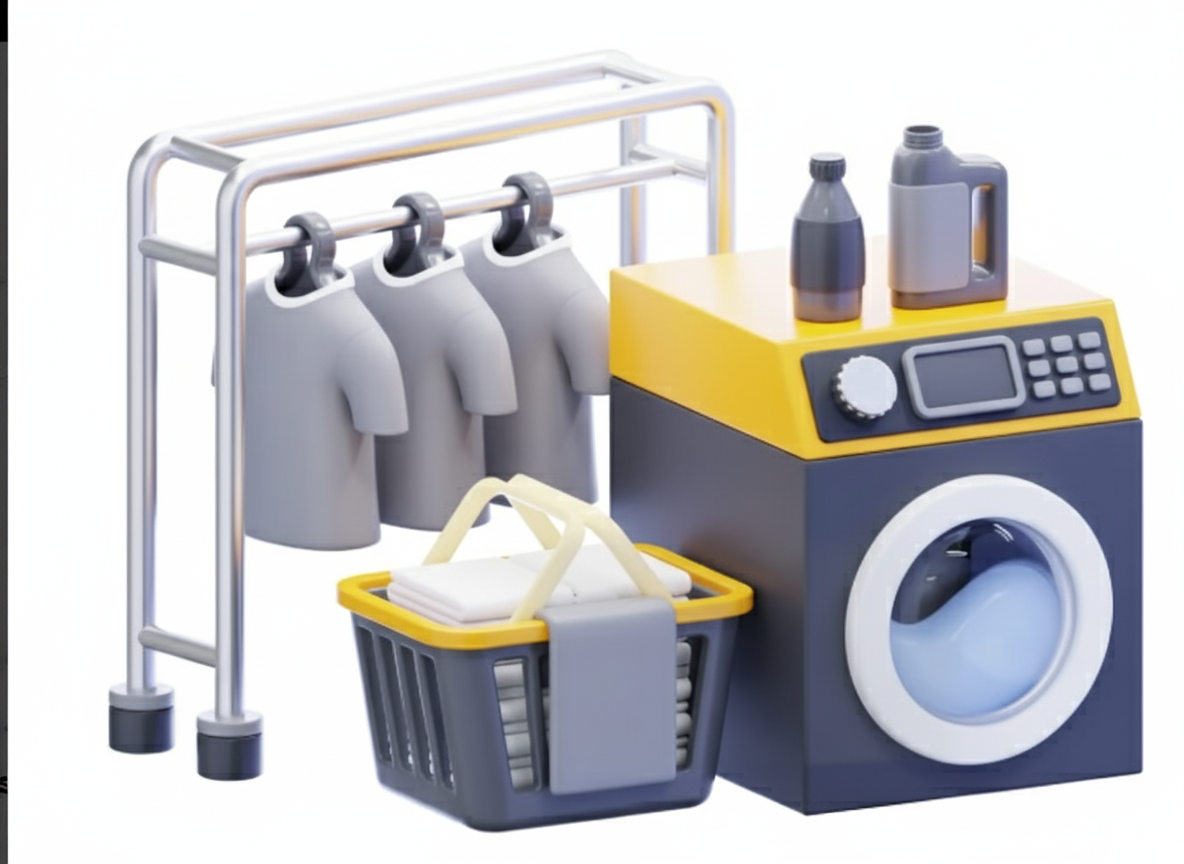
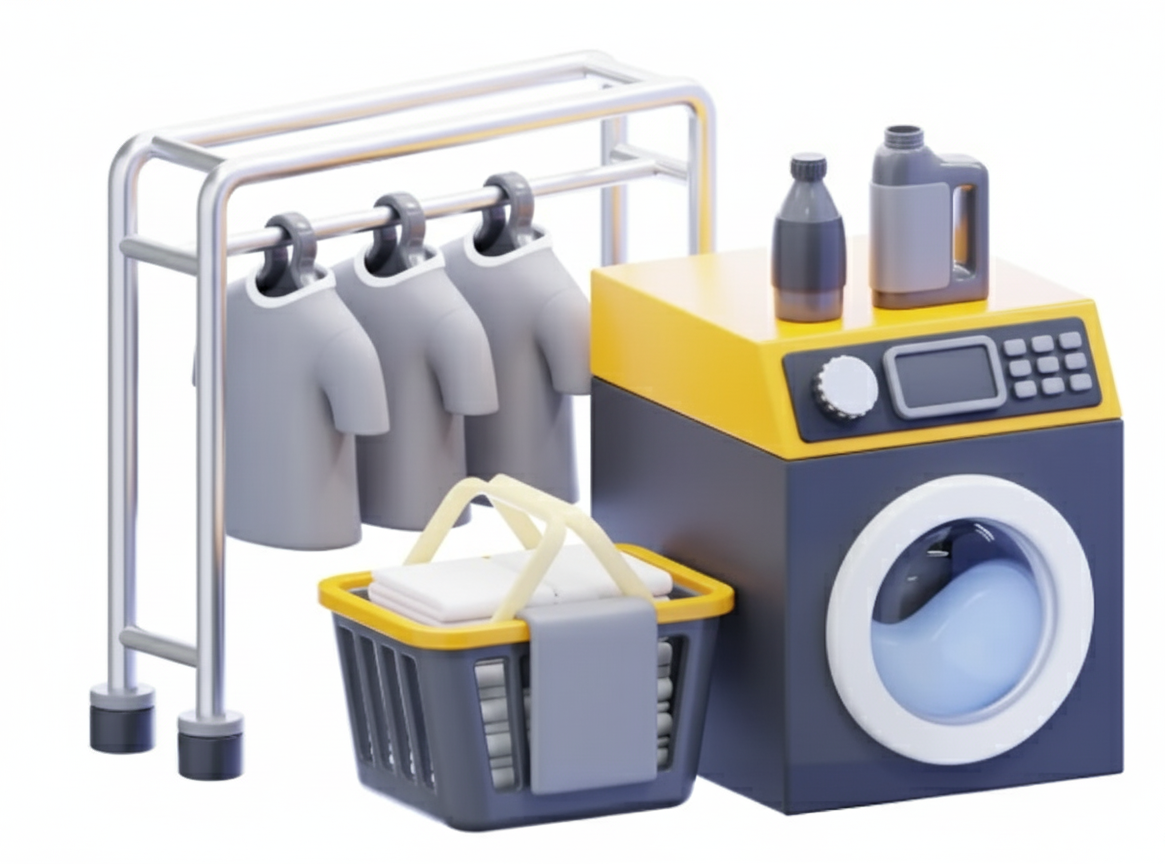
fixed bottom and right overflow

diff --git a/lib/screens/chat_screen.dart b/lib/screens/chat_screen.dart
@@ -55,22 +55,23 @@ class _ChatScreenState extends State<ChatScreen> {
         ),
         title: Row(
           mainAxisAlignment: MainAxisAlignment.center,
+          mainAxisSize: MainAxisSize.min,
           children: [
             Container(
-              width: 28,
-              height: 28,
+              width: 24,
+              height: 24,
               decoration: BoxDecoration(
                 color: Colors.white,
                 borderRadius: BorderRadius.circular(6),
               ),
-              child: const Icon(Icons.local_laundry_service, color: Color(0xFF1A237E), size: 16),
+              child: const Icon(Icons.local_laundry_service, color: Color(0xFF1A237E), size: 14),
             ),
-            const SizedBox(width: 8),
+            const SizedBox(width: 6),
             const Text(
               'Kintsugi',
               style: TextStyle(
                 color: Colors.white,
-                fontSize: 18,
+                fontSize: 16,
                 fontWeight: FontWeight.w600,
               ),
             ),
@@ -118,22 +119,22 @@ class _ChatScreenState extends State<ChatScreen> {
                   ),
                   const SizedBox(height: 24),
                   // Feature buttons
-                  Container(
-                    padding: const EdgeInsets.symmetric(horizontal: 16),
+                  Padding(
+                    padding: const EdgeInsets.symmetric(horizontal: 8),
                     child: Column(
                       children: [
                         Row(
                           children: [
                             Expanded(child: _buildFeatureButton(Icons.build, 'Diagnose Issue', () {})),
-                            const SizedBox(width: 12),
+                            const SizedBox(width: 8),
                             Expanded(child: _buildFeatureButton(Icons.help_outline, 'Get Help', () {})),
                           ],
                         ),
-                        const SizedBox(height: 12),
+                        const SizedBox(height: 8),
                         Row(
                           children: [
                             Expanded(child: _buildFeatureButton(Icons.settings, 'Settings Guide', () {})),
-                            const SizedBox(width: 12),
+                            const SizedBox(width: 8),
                             Expanded(child: _buildFeatureButton(Icons.lightbulb_outline, 'Tips', () {})),
                           ],
                         ),
@@ -166,66 +167,85 @@ class _ChatScreenState extends State<ChatScreen> {
             ),
           ),
           // Input area
-          Container(
-            padding: const EdgeInsets.all(16),
-            decoration: const BoxDecoration(
-              color: Colors.white,
-            ),
-            child: Row(
-              children: [
-                IconButton(
-                  icon: const Icon(Icons.attach_file, color: Color(0xFF1A237E)),
-                  onPressed: () {},
-                ),
-                Expanded(
-                  child: Container(
-                    padding: const EdgeInsets.symmetric(horizontal: 16, vertical: 12),
-                    decoration: BoxDecoration(
-                      color: Colors.grey[50],
-                      borderRadius: BorderRadius.circular(24),
-                      border: Border.all(color: Colors.grey[200]!),
+          SafeArea(
+            child: Container(
+              padding: const EdgeInsets.symmetric(horizontal: 12, vertical: 8),
+              decoration: const BoxDecoration(
+                color: Colors.white,
+              ),
+              child: Row(
+                crossAxisAlignment: CrossAxisAlignment.end,
+                children: [
+                  IconButton(
+                    icon: const Icon(Icons.attach_file, color: Color(0xFF1A237E)),
+                    onPressed: () {},
+                    constraints: const BoxConstraints(
+                      minWidth: 36,
+                      minHeight: 36,
                     ),
-                    child: TextField(
-                      controller: _queryController,
-                      decoration: const InputDecoration(
-                        hintText: 'Ask me anything',
-                        hintStyle: TextStyle(color: Colors.grey),
-                        border: InputBorder.none,
-                        isDense: true,
+                    padding: EdgeInsets.zero,
+                  ),
+                  Expanded(
+                    child: Container(
+                      constraints: const BoxConstraints(
+                        maxHeight: 120,
                       ),
-                      maxLines: null,
-                      onSubmitted: (_) => _sendMessage(),
-                      onChanged: (text) => setState(() {}),
+                      padding: const EdgeInsets.symmetric(horizontal: 12, vertical: 8),
+                      decoration: BoxDecoration(
+                        color: Colors.grey[50],
+                        borderRadius: BorderRadius.circular(20),
+                        border: Border.all(color: Colors.grey[200]!),
+                      ),
+                      child: TextField(
+                        controller: _queryController,
+                        decoration: const InputDecoration(
+                          hintText: 'Ask me anything',
+                          hintStyle: TextStyle(color: Colors.grey, fontSize: 14),
+                          border: InputBorder.none,
+                          isDense: true,
+                          contentPadding: EdgeInsets.zero,
+                        ),
+                        maxLines: null,
+                        textInputAction: TextInputAction.newline,
+                        onSubmitted: (_) => _sendMessage(),
+                        onChanged: (text) => setState(() {}),
+                      ),
                     ),
                   ),
-                ),
-                const SizedBox(width: 8),
-                Container(
-                  width: 40,
-                  height: 40,
-                  decoration: BoxDecoration(
-                    color: _queryController.text.trim().isEmpty 
-                        ? Colors.grey[300] 
-                        : const Color(0xFF1A237E),
-                    borderRadius: BorderRadius.circular(20),
-                  ),
-                  child: IconButton(
-                    icon: Icon(
-                      Icons.send,
+                  const SizedBox(width: 4),
+                  Container(
+                    width: 36,
+                    height: 36,
+                    decoration: BoxDecoration(
                       color: _queryController.text.trim().isEmpty 
-                          ? Colors.grey[600] 
-                          : Colors.white,
-                      size: 18,
+                          ? Colors.grey[300] 
+                          : const Color(0xFF1A237E),
+                      borderRadius: BorderRadius.circular(18),
                     ),
-                    onPressed: _sendMessage,
+                    child: IconButton(
+                      icon: Icon(
+                        Icons.send,
+                        color: _queryController.text.trim().isEmpty 
+                            ? Colors.grey[600] 
+                            : Colors.white,
+                        size: 16,
+                      ),
+                      onPressed: _sendMessage,
+                      padding: EdgeInsets.zero,
+                    ),
                   ),
-                ),
-                const SizedBox(width: 8),
-                IconButton(
-                  icon: const Icon(Icons.mic, color: Color(0xFF1A237E)),
-                  onPressed: () {},
-                ),
-              ],
+                  const SizedBox(width: 4),
+                  IconButton(
+                    icon: const Icon(Icons.mic, color: Color(0xFF1A237E)),
+                    onPressed: () {},
+                    constraints: const BoxConstraints(
+                      minWidth: 36,
+                      minHeight: 36,
+                    ),
+                    padding: EdgeInsets.zero,
+                  ),
+                ],
+              ),
             ),
           ),
         ],
@@ -237,23 +257,28 @@ class _ChatScreenState extends State<ChatScreen> {
     return GestureDetector(
       onTap: onPressed,
       child: Container(
-        padding: const EdgeInsets.symmetric(horizontal: 16, vertical: 12),
+        padding: const EdgeInsets.symmetric(horizontal: 8, vertical: 10),
         decoration: BoxDecoration(
           color: Colors.white.withOpacity(0.1),
-          borderRadius: BorderRadius.circular(20),
+          borderRadius: BorderRadius.circular(16),
           border: Border.all(color: Colors.white.withOpacity(0.2)),
         ),
         child: Row(
           mainAxisAlignment: MainAxisAlignment.center,
+          mainAxisSize: MainAxisSize.min,
           children: [
-            Icon(icon, size: 18, color: Colors.white),
-            const SizedBox(width: 8),
-            Text(
-              label,
-              style: const TextStyle(
-                fontSize: 14,
-                fontWeight: FontWeight.w500,
-                color: Colors.white,
+            Icon(icon, size: 16, color: Colors.white),
+            const SizedBox(width: 4),
+            Flexible(
+              child: Text(
+                label,
+                style: const TextStyle(
+                  fontSize: 12,
+                  fontWeight: FontWeight.w500,
+                  color: Colors.white,
+                ),
+                overflow: TextOverflow.ellipsis,
+                maxLines: 1,
               ),
             ),
           ],
@@ -264,54 +289,57 @@ class _ChatScreenState extends State<ChatScreen> {
 
   Widget _buildMessage(String text, bool isUser) {
     return Container(
-      margin: const EdgeInsets.only(bottom: 16),
+      margin: const EdgeInsets.only(bottom: 12),
       child: Row(
         crossAxisAlignment: CrossAxisAlignment.end,
         children: [
           if (!isUser) ...[
             Container(
-              width: 32,
-              height: 32,
+              width: 28,
+              height: 28,
               decoration: BoxDecoration(
                 color: const Color(0xFF1A237E),
-                borderRadius: BorderRadius.circular(8),
+                borderRadius: BorderRadius.circular(6),
               ),
-              child: const Icon(Icons.local_laundry_service, color: Colors.white, size: 16),
+              child: const Icon(Icons.local_laundry_service, color: Colors.white, size: 14),
             ),
-            const SizedBox(width: 12),
+            const SizedBox(width: 8),
           ],
           Expanded(
             child: Container(
-              padding: const EdgeInsets.symmetric(horizontal: 16, vertical: 12),
+              constraints: BoxConstraints(
+                maxWidth: MediaQuery.of(context).size.width * 0.75,
+              ),
+              padding: const EdgeInsets.symmetric(horizontal: 12, vertical: 10),
               decoration: BoxDecoration(
                 color: isUser ? const Color(0xFF1A237E) : Colors.grey[100],
                 borderRadius: BorderRadius.only(
-                  topLeft: const Radius.circular(20),
-                  topRight: const Radius.circular(20),
-                  bottomLeft: Radius.circular(isUser ? 20 : 4),
-                  bottomRight: Radius.circular(isUser ? 4 : 20),
+                  topLeft: const Radius.circular(16),
+                  topRight: const Radius.circular(16),
+                  bottomLeft: Radius.circular(isUser ? 16 : 4),
+                  bottomRight: Radius.circular(isUser ? 4 : 16),
                 ),
               ),
               child: Text(
                 text,
                 style: TextStyle(
                   color: isUser ? Colors.white : Colors.black87,
-                  fontSize: 15,
-                  height: 1.4,
+                  fontSize: 14,
+                  height: 1.3,
                 ),
               ),
             ),
           ),
           if (isUser) ...[
-            const SizedBox(width: 12),
+            const SizedBox(width: 8),
             Container(
-              width: 32,
-              height: 32,
+              width: 28,
+              height: 28,
               decoration: BoxDecoration(
                 color: const Color(0xFF1A237E).withOpacity(0.1),
-                borderRadius: BorderRadius.circular(16),
+                borderRadius: BorderRadius.circular(14),
               ),
-              child: const Icon(Icons.person, color: Color(0xFF1A237E), size: 16),
+              child: const Icon(Icons.person, color: Color(0xFF1A237E), size: 14),
             ),
           ],
         ],

diff --git a/lib/screens/splash_screen.dart b/lib/screens/splash_screen.dart
@@ -83,15 +83,24 @@ class _SplashScreenState extends State<SplashScreen> with TickerProviderStateMix
               builder: (context, child) {
                 return FadeTransition(
                   opacity: _textAnimation,
-                  child: const Text(
-                    'KINTSUGI',
-                    style: TextStyle(
-                      color: Colors.white,
-                      fontSize: 48,
-                      fontWeight: FontWeight.w900,
-                      letterSpacing: 4,
-                      fontFamily: 'RobotoCondensed',
-                    ),
+                  // child: const Text(
+                  //   'KINTSUGI',
+                  //   style: TextStyle(
+                  //     color: Colors.white,
+                  //     fontSize: 48,
+                  //     fontWeight: FontWeight.w900,
+                  //     letterSpacing: 4,
+                  //     fontFamily: 'RobotoCondensed',
+                  //   ),
+                  const Text(
+                      'KINTSUGI',
+                      style: TextStyle(
+                        color: Colors.white,
+                        fontSize: 48,
+                        fontWeight: FontWeight.w900,
+                        letterSpacing: 4,
+                      ),
+                    );
                   ),
                 );
               },
